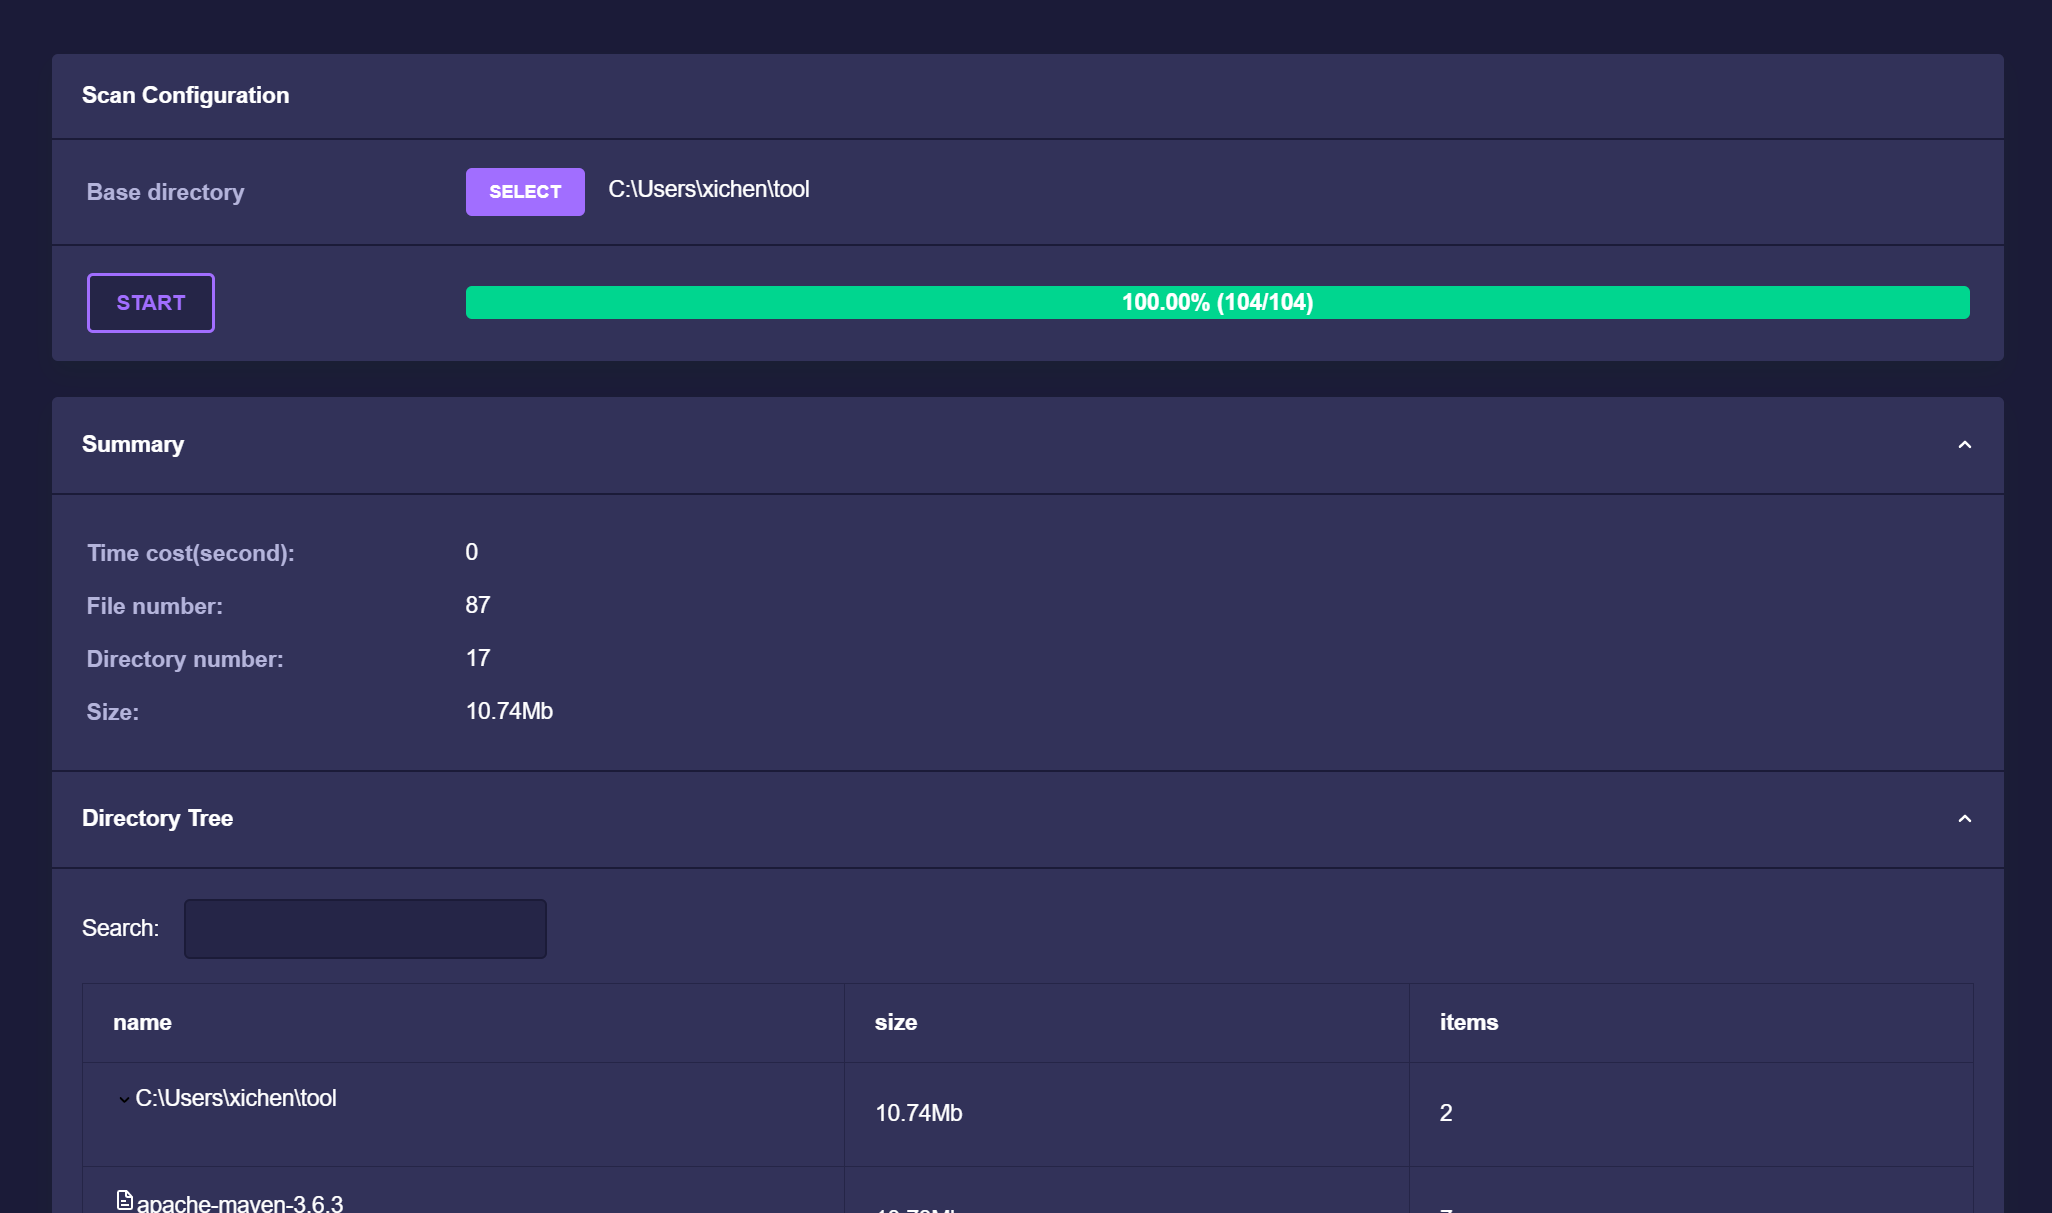
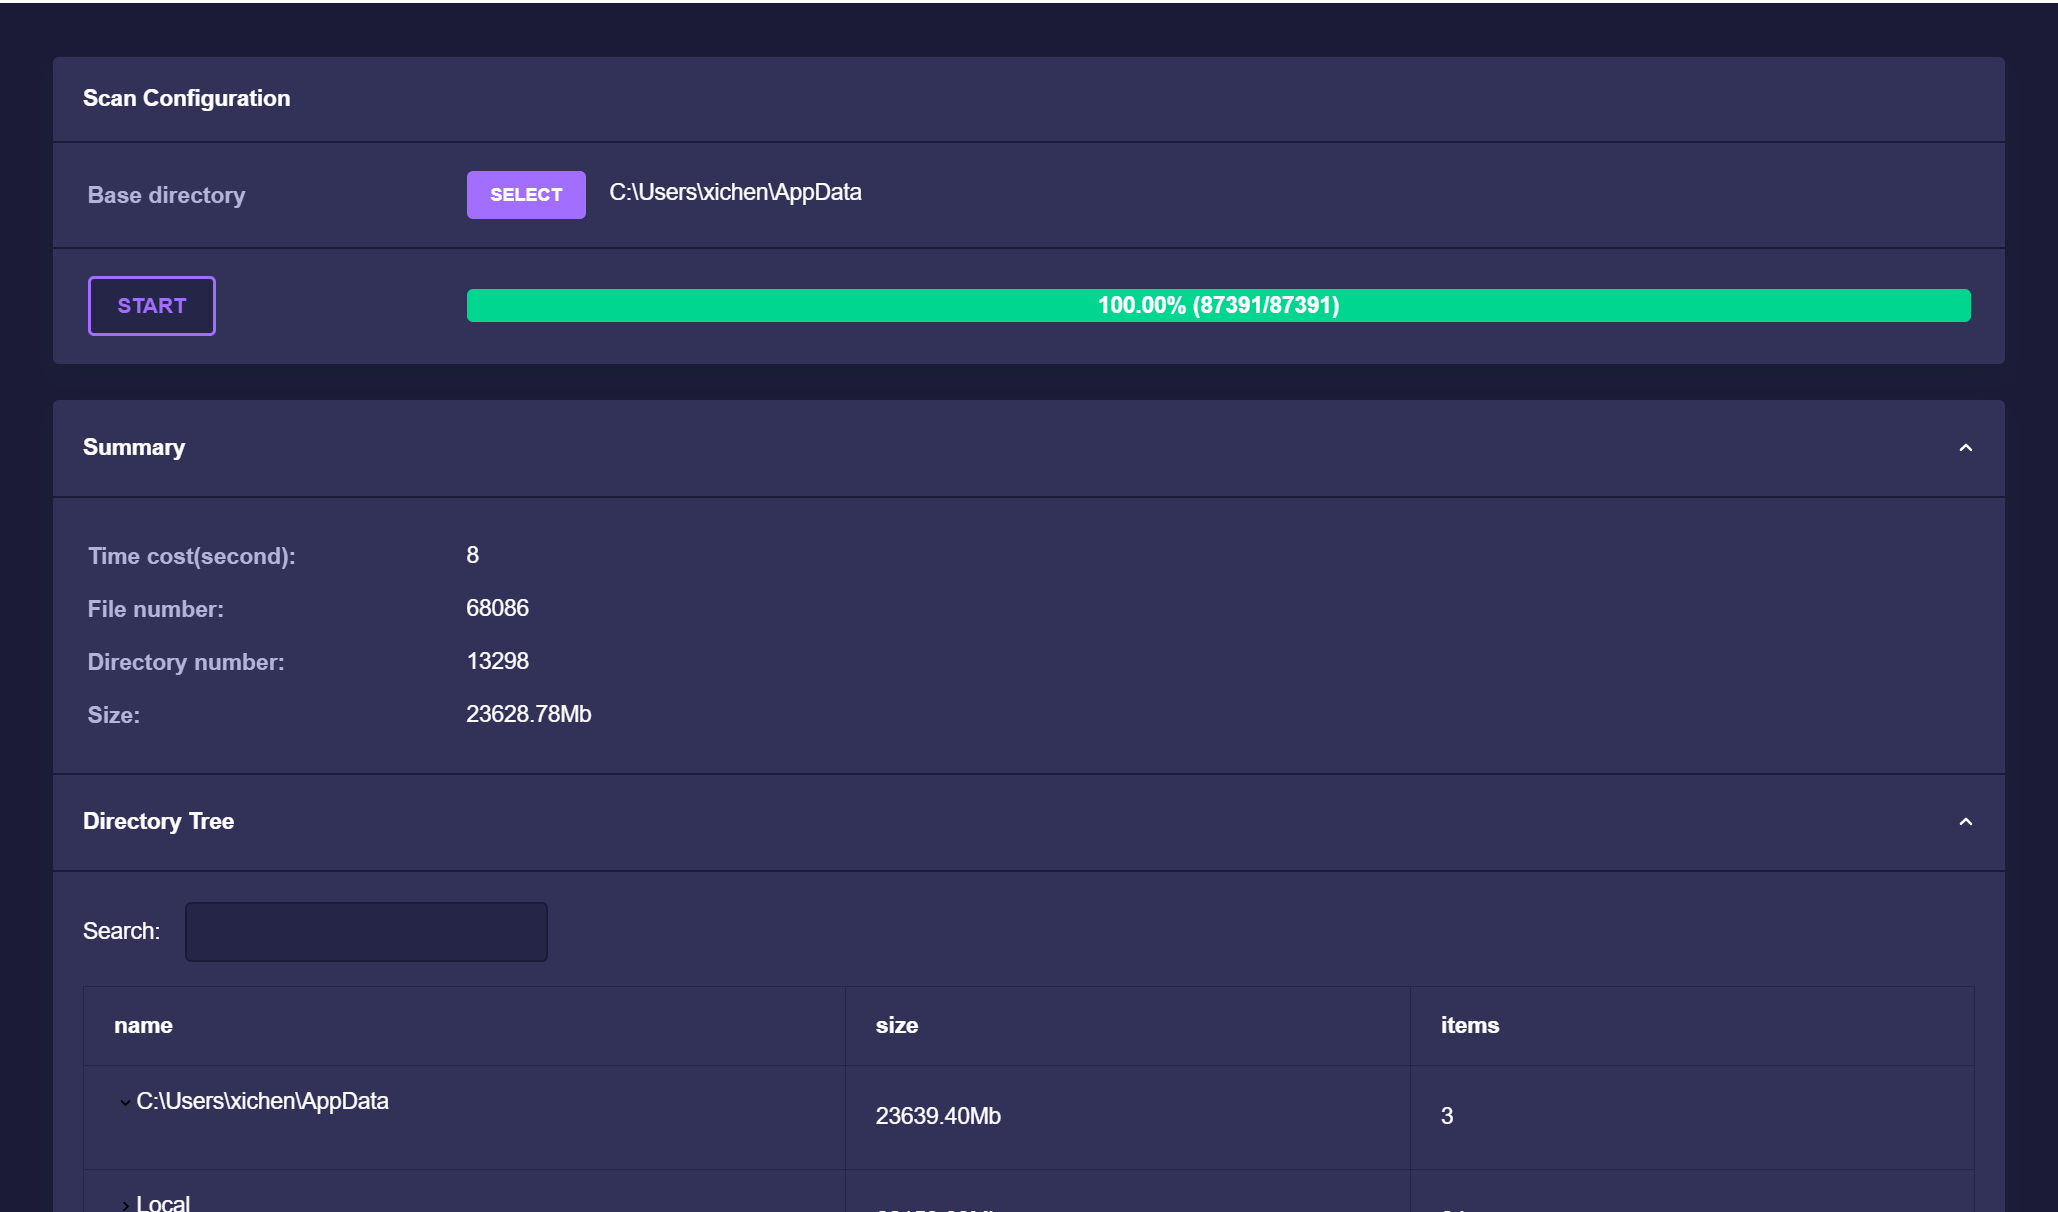
bug fix

diff --git a/src/app/home/home.component.html b/src/app/home/home.component.html
@@ -105,13 +105,13 @@
       Directory Tree
     </nb-accordion-item-header>
     <nb-accordion-item-body>
-      <label class="search-label" for="search">Search:</label>
+      <!-- <label class="search-label" for="search">Search:</label>
       <input
         nbInput
         [nbFilterInput]="dirTree"
         id="search"
         class="search-input"
-      />
+      /> -->
 
       <table [nbTreeGrid]="dirTree">
         <tr nbTreeGridHeaderRow *nbTreeGridHeaderRowDef="dirTreeAllColumns"></tr>

diff --git a/src/app/home/home.component.ts b/src/app/home/home.component.ts
@@ -42,8 +42,7 @@ export class HomeComponent implements OnInit {
 
   public isScanning = false;
 
-  public baseDirectory =
-    'C:\\Users\\xichen\\Documents\\Visual Studio 2012\\Templates\\ProjectTemplates';
+  public baseDirectory = '';
 
   public dirTreeCustomColumn = 'name';
   public dirTreeDefaultColumns = ['size', 'items'];

diff --git a/src/app/services/scan-result.service.ts b/src/app/services/scan-result.service.ts
@@ -100,7 +100,7 @@ export class ScanResultService {
             items: resp.info.root.children.length,
           },
           children: [],
-          expanded: true,
+          expanded: false,
         };
         this.convertToDirectoryTree(entityRoot, resp.info.root);
         return entityRoot;

diff --git a/src/app/services/scan.service.ts b/src/app/services/scan.service.ts
@@ -52,8 +52,8 @@ export class ScanService {
       excludedPaths: [],
       outputTypes: ['Api'],
       fileOutputLoc: '',
-      fileSizeUnit: 'Kb',
-      dirSizeUnit: 'Mb',
+      fileSizeUnit: 'Auto',
+      dirSizeUnit: 'Auto',
       fileTopCount: 1000,
     };
   }

diff --git a/src/main/java/com/msxichen/diskscanner/io/Utilities.java b/src/main/java/com/msxichen/diskscanner/io/Utilities.java
@@ -8,7 +8,23 @@ public class Utilities {
 
 	public static String formatSize(OutputUnit unit, long sizeInByte) {
 		double size = 0;
-		if (OutputUnit.Gb == unit) {
+		if (OutputUnit.Auto == unit) {
+			size = sizeInByte;
+			if (size < 1024) {
+				return formatSize(size) + OutputUnit.B;
+			}
+			size /= 1024d;
+			if (size < 1024) {
+				return formatSize(size) + OutputUnit.Kb;
+			}
+			size /= 1024d;
+			if (size < 1024) {
+				return formatSize(size) + OutputUnit.Mb;
+			}
+			size /= 1024d;
+			return formatSize(size) + OutputUnit.Gb;
+			
+		} else if (OutputUnit.Gb == unit) {
 			size = sizeInByte / 1024d / 1024d / 1024d;
 		} else if (OutputUnit.Mb == unit) {
 			size = sizeInByte / 1024d / 1024d;

diff --git a/src/main/java/com/msxichen/diskscanner/core/model/DirectoryTree.java b/src/main/java/com/msxichen/diskscanner/core/model/DirectoryTree.java
@@ -30,7 +30,8 @@ public class DirectoryTree {
 		}
 		StringBuilder nextPath = path.append("\\").append(pathSegs[pathIndex]);
 
-		node.getChildern().putIfAbsent(nextPath.toString(), new DirectoryNode(nextPath.toString(), isDirectory));
+		node.getChildern().putIfAbsent(nextPath.toString(),
+				new DirectoryNode(nextPath.toString(), isDirectory || pathIndex < pathSegs.length - 1));
 		increaseSizeDescade(node.getChildern().get(nextPath.toString()), nextPath, pathSegs, pathIndex + 1, sizeInByte,
 				isDirectory);
 	}

diff --git a/src/main/java/com/msxichen/diskscanner/core/model/OutputUnit.java b/src/main/java/com/msxichen/diskscanner/core/model/OutputUnit.java
@@ -2,8 +2,10 @@ package com.msxichen.diskscanner.core.model;
 
 public enum OutputUnit {
 
+	B,
 	Kb,
 	Mb,
-	Gb
+	Gb,
+	Auto
 	
 }
